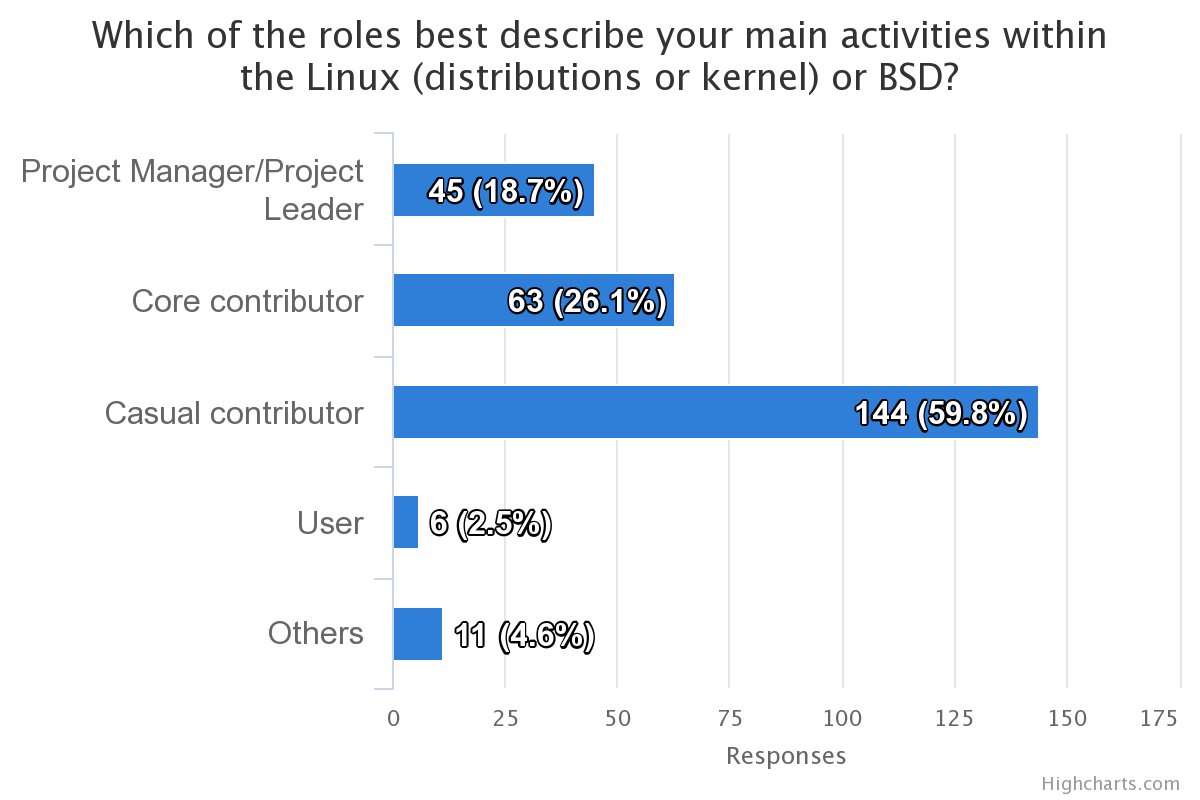
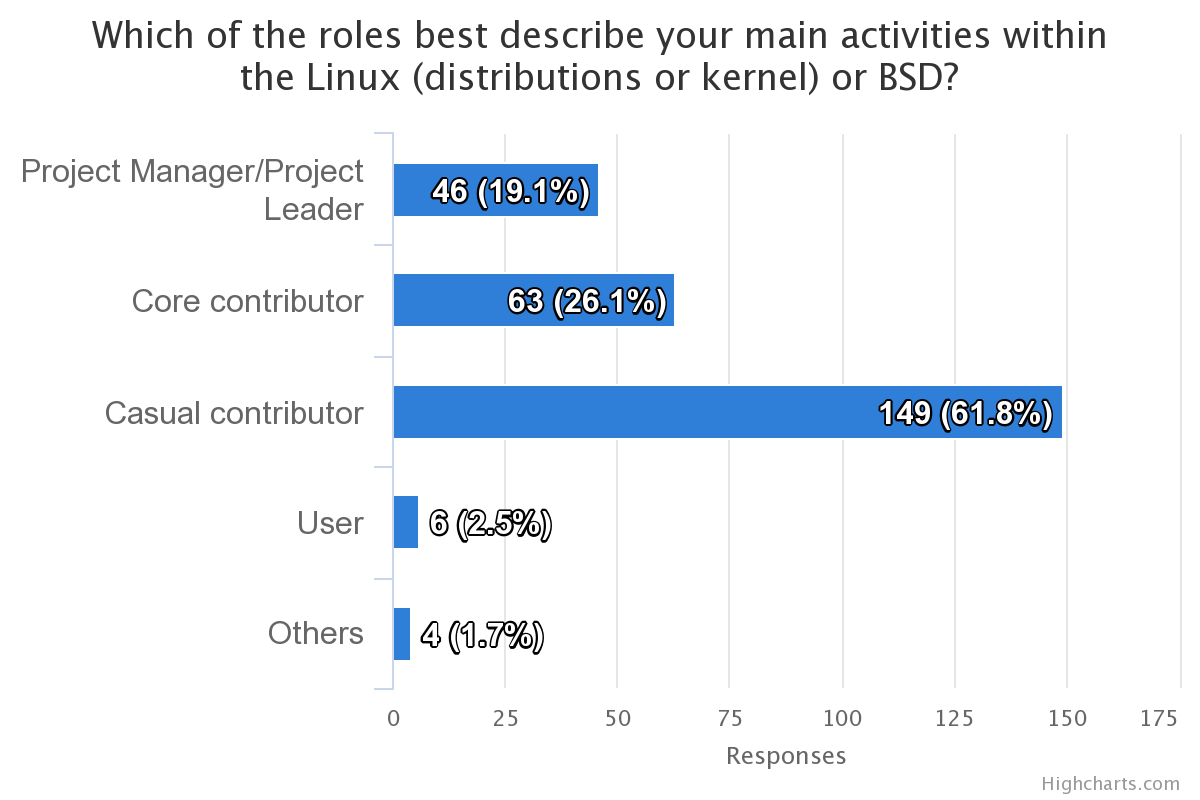
update graph 1-1

Changed region(s): [[0.7092, 0.4688, 0.8942, 0.5625], [0.3392, 0.75, 0.4933, 0.8438], [0.3392, 0.2188, 0.5242, 0.2812]]

diff --git a/assets/js/chart/01.js b/assets/js/chart/01.js
@@ -61,11 +61,11 @@ var config = {
     type: 'bar',
     question: 'Which of the roles best describe your main activities within the Linux (distributions or kernel) or BSD?',
     data: [
-      ['Project Manager/Project Leader', 45],
+      ['Project Manager/Project Leader', 46],
       ['Core contributor', 63],
-      ['Casual contributor', 144],
+      ['Casual contributor', 149],
       ['User', 6],
-      ['Others', 11]
+      ['Others', 4]
     ]
   },
   // question1-2
